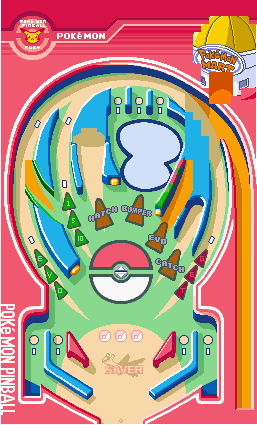
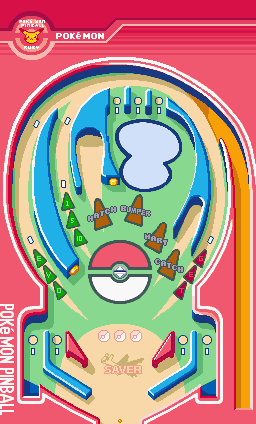
Fixed BG

diff --git a/CleanTemplate/fisica2-CleanTemplate/Source/ModuleGame.cpp b/CleanTemplate/fisica2-CleanTemplate/Source/ModuleGame.cpp
@@ -225,7 +225,7 @@ bool ModuleGame::Start()
 	LOG("Loading Intro assets");
 	bool ret = true;
 
-	emptyBoard = LoadTexture("Assets/Ruby/bg+gym.png");
+	emptyBoard = LoadTexture("Assets/Ruby/bg+mart.png");
 	ballTex = LoadTexture("Assets/Ruby/temp ball.png");
 	spoinkSheet = LoadTexture("Assets/Ruby/spoink_sheet.png");
 
